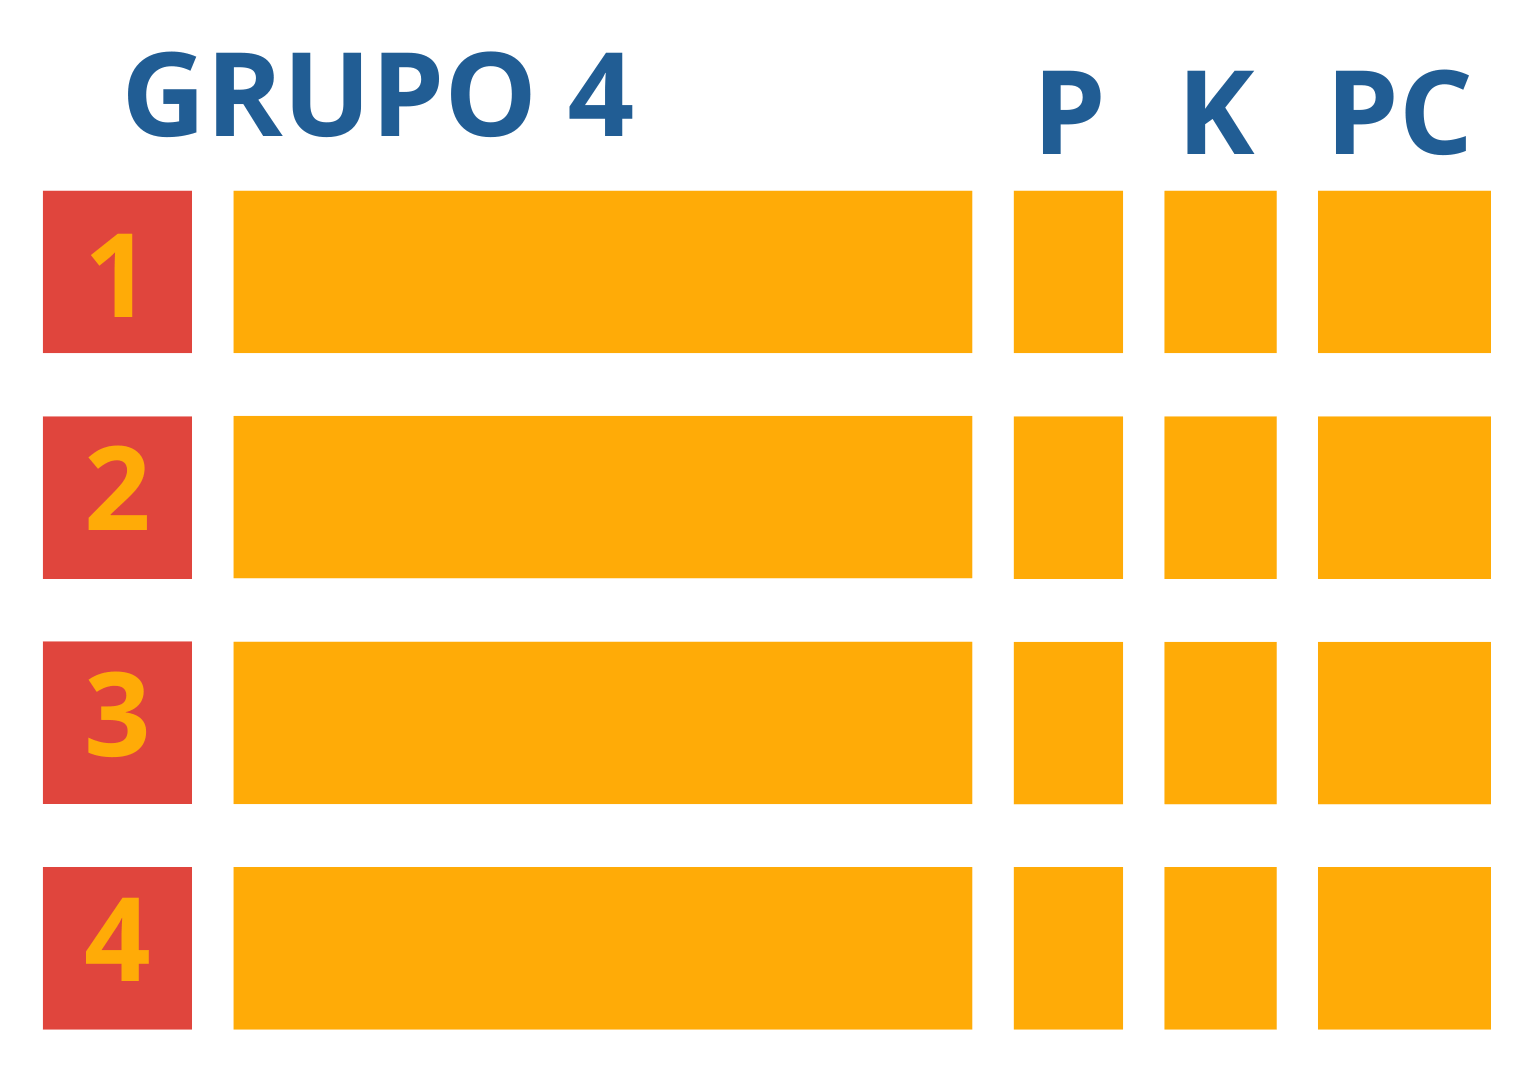
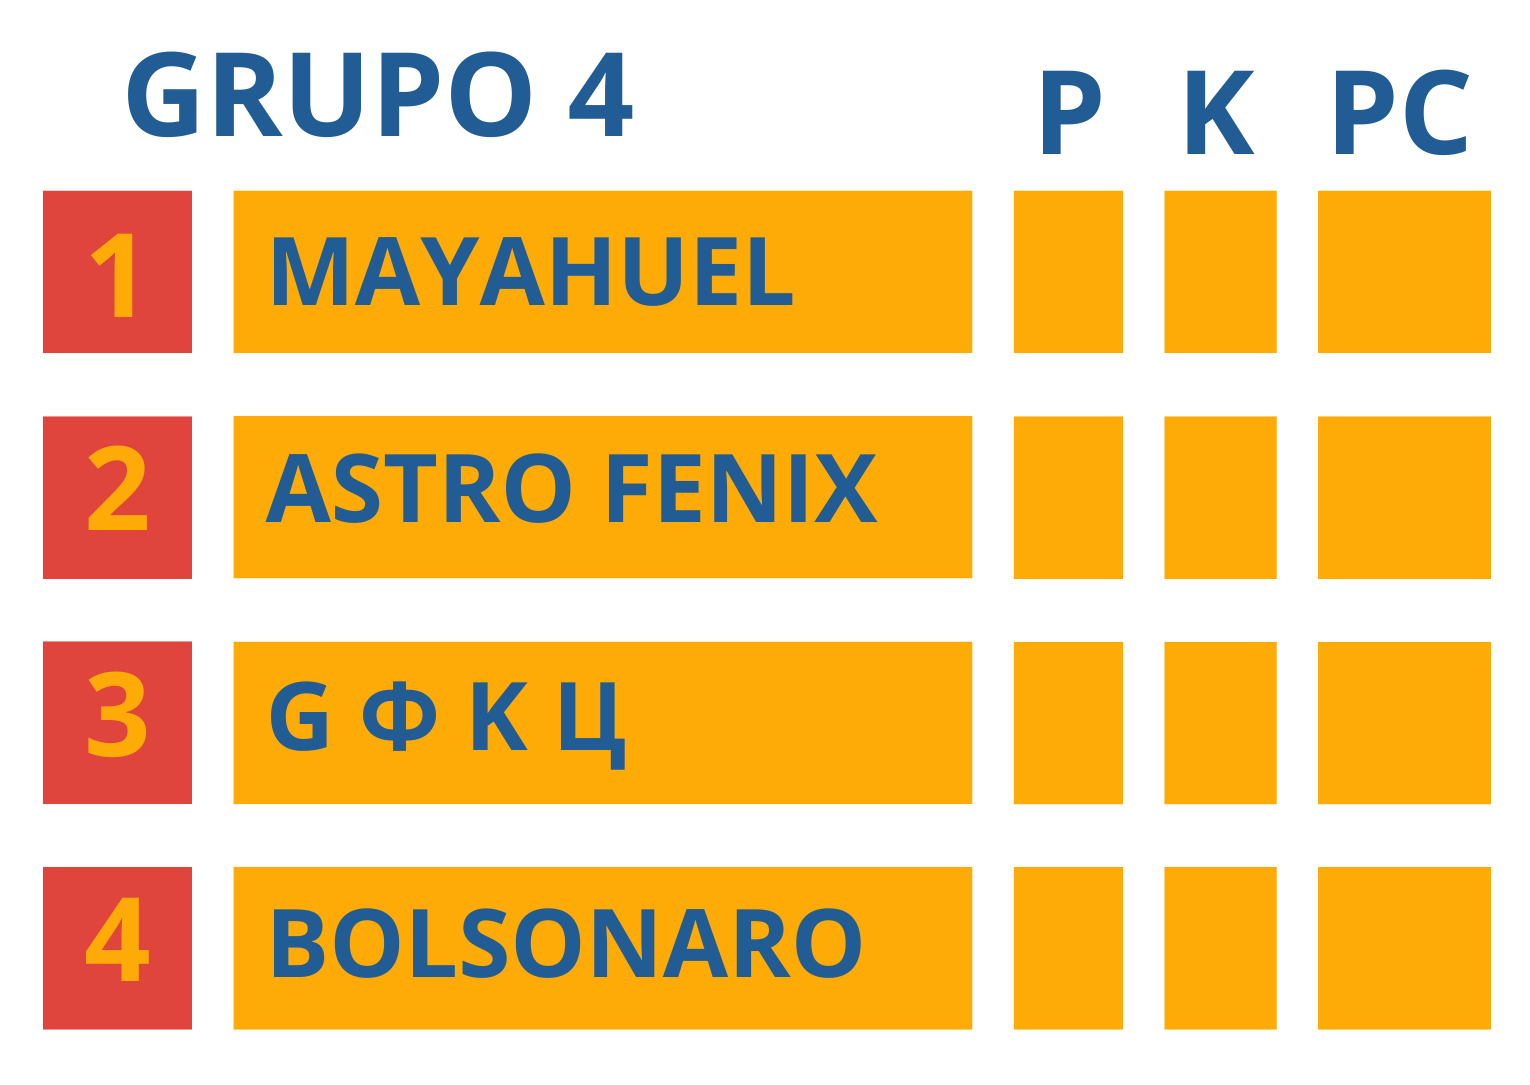
Grupo

diff --git a/css/menu.css b/css/menu.css
@@ -45,7 +45,6 @@ a:hover{
 @media (max-width: 650px){
 
     #header {
-        background-image: url('');
         background-color: #ffab07;
         transition: 0.5s;
     }

diff --git a/modalidades/faca/teste.php b/modalidades/faca/teste.php
@@ -1,0 +1,78 @@
+<?php 
+    class Jogador{
+        public $grupo;
+        public $nick;
+        public $pontos;
+        public $kills;
+        public $pc;
+    
+        function __construct($grupo, $nick, $pontos, $kills, $pc)
+        {
+            $this->nick = $nick;
+            $this->pontos = $pontos;
+        }
+    }
+?>
+
+<!DOCTYPE html>
+<html lang="PT-br">
+<head>
+    <meta charset="UTF-8">
+    <meta http-equiv="X-UA-Compatible" content="IE=edge">
+    <meta name="viewport" content="width=device-width, initial-scale=1.0">
+    <title>Grupo</title>
+    <style>
+        /* #ffab07 Amarelo
+        #E0453D Vermelho
+        #215D94 Azul */
+        *{
+            font-family:arial;
+        }
+        .cabecalho {
+            color: #215D94;
+        }
+        .posicao{
+            padding: 2px 6px;
+            background-color: #E0453D ;
+            color: #ffab07;
+        }
+        .jogador, .pontos, .kills, .pc{
+            padding: 3px;
+            background-color: #ffab07;
+            color: #215D94;
+        }
+    </style>
+</head>
+<body>
+    <div class="conteudo">
+        <div class="grupo">
+            
+
+            <table>
+                <tr class="cabecalho">
+                    <th>#</th><th>GRUPO</th><th>P</th><th>K</th><th>PC</th>
+                </tr>
+                <?php 
+                    $cont = 1;
+                    while($cont < 5){
+                        echo "
+                        <tr>
+                            <td class='posicao'>". $cont ."</td>
+                            <td class='jogador'>Jogador ". $cont ."</td>
+                            <td class='pontos'>0</td>
+                            <td class='kills'>0</td>
+                            <td class='pc'>000</td>
+                        </tr>
+                        
+                        ";
+                        $cont++;
+                    }
+                ?>
+                
+                
+            </table>
+        </div>
+    </div>
+    
+</body>
+</html>
